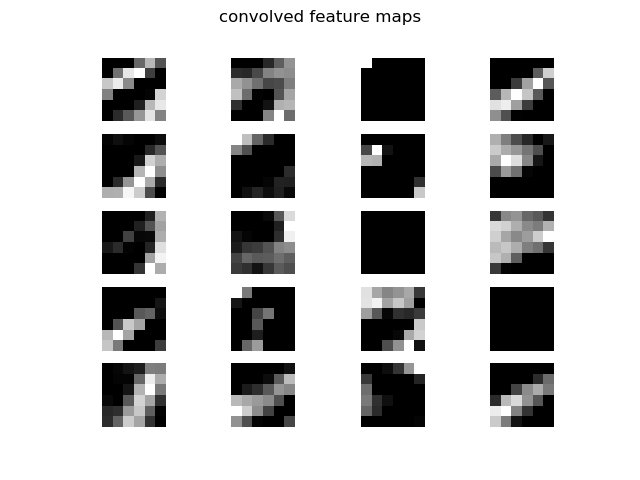
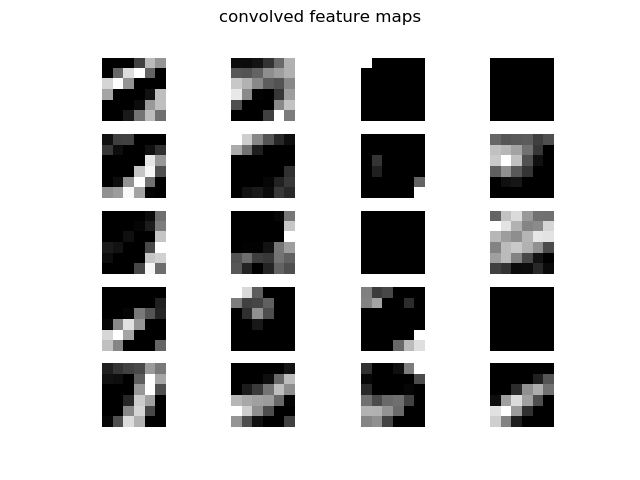
Finished qn 3

diff --git a/project2a.py b/project2a.py
@@ -7,16 +7,23 @@ from theano import tensor as T
 from theano.tensor.nnet import conv2d
 from theano.tensor.signal import pool
 
+import sys
+
 # 2 convolution layer, 2 max pooling layer, 1 hidden and a softmax layer
  
-np.random.seed(10)
-
 learning_rate = 0.05
 batch_size = 128
 decay_param = 1e-4
 noIters = 100
 momentum = 0.1
-part_number = 2
+part_number = 1
+
+if len(sys.argv)>1:
+    part_number = int(sys.argv[1])
+    print("Running script for part %d" % part_number)
+
+rms_roe = 0.9
+rms_eps = 1e-6
 debug = False
 
 def init_weights_bias4(filter_shape, d_type):
@@ -96,12 +103,33 @@ def sgd_momentum(cost, weights, biases, velocities,
     updates = []
 
     for i in range(len(gradW)):
+        temp = momentum*velocities[i]-(gradW[i] + decay*weights[i]) * lr
         updates.append(
-            (velocities[i], 
-            momentum*velocities[i]-(gradW[i] + decay*weights[i]) * lr)
+            (velocities[i], temp)
         )
         updates.append(
-            (weights[i], weights[i]+velocities[i])
+            (weights[i], weights[i]+temp)
+        )
+        updates.append(
+            (biases[i],biases[i]-(gradB[i]+decay*biases[i])*lr)
+        )
+    return updates
+
+def sgd_rms(cost, weights,biases, rmsterms,
+    roe=0.9, epsilon=1e-6,
+    lr=0.001, decay=1e-4):
+    gradW = T.grad(cost=cost, wrt=weights)
+    gradB = T.grad(cost=cost, wrt=biases)
+    updates = []
+
+    for i in range(len(gradW)):
+        temp = roe*rmsterms[i] + (1-roe)*T.sqr(gradW[i])
+        updates.append(
+            (rmsterms[i], temp)
+        )
+        temp = lr / T.sqrt(epsilon + temp)
+        updates.append(
+            (weights[i], weights[i]-temp * gradW[i])
         )
         updates.append(
             (biases[i],biases[i]-(gradB[i]+decay*biases[i])*lr)
@@ -165,6 +193,8 @@ outputs = create_model(X, weights, biases)
 
 if part_number==2:
     velocities = create_velocity(X.dtype, config)
+elif part_number==3:
+    rmsterms = create_velocity(X.dtype, config) # rmsterms have same dimensions as velocity anyway
 
 py_x = outputs[5]
 y_x = T.argmax(py_x, axis=1)
@@ -175,6 +205,9 @@ if part_number==1:
 elif part_number==2:
     updates = sgd_momentum(cost, weights, biases, velocities, lr=learning_rate, decay=decay_param, 
         momentum=momentum)
+elif part_number==3:
+    updates = sgd_rms(cost, weights,biases, rmsterms, roe=rms_roe, epsilon=rms_eps,
+            lr=0.001, decay=decay_param)
 else:
     raise IndexError("Part number out of bounds")
 
@@ -202,6 +235,8 @@ for i in range(noIters):
     c.append(cumCost)
     print('Epoch %d: Avg Cost=%.2e Accu=%3f' % (i+1,c[i],a[i]))
 
+# save accuracy list
+np.save( "accu_part%d.npy" % part_number, a)
 
 # accuracy figure
 fig = pylab.figure()

diff --git a/test.py b/test.py
@@ -1,0 +1,15 @@
+import numpy as np
+import pylab 
+
+fig = pylab.figure()
+
+pylab.xlabel('epochs')
+pylab.ylabel('test accuracy')
+
+colors = ['red','green','blue']
+
+for i in range(3):
+    a=np.load("accu_part%d.npy" % (i+1))
+    pylab.plot(range(len(a)), a, color=colors[i])
+
+pylab.show()
